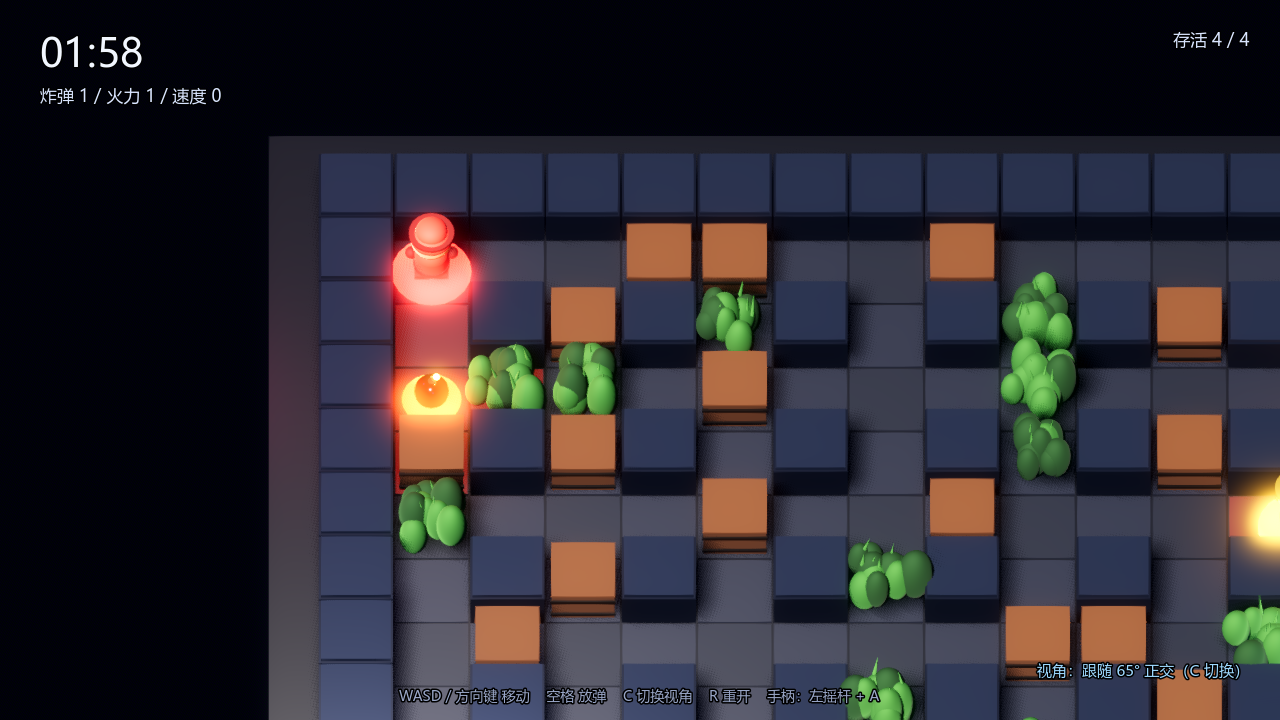
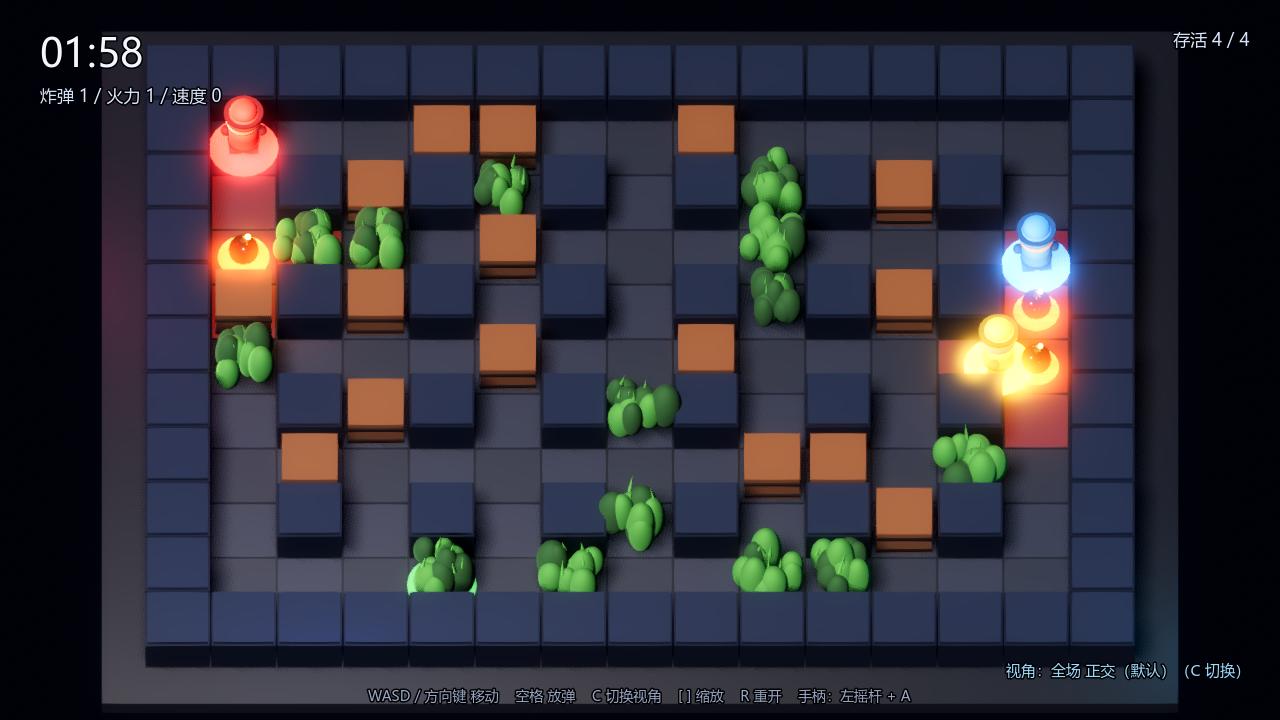
feat(game3d): 默认改为全场正交（整图入镜）+ 视野缩放键
- 相机正对棋盘、去掉 45° 斜角，15x11 全在画面里
- [ ] 实时缩放（0.7x-2.0x），HUD 提示同步
- 跟随模式改为小幅漂移，不再把画面带到场地角落
- 重新生成视角对比图并导出 exe

diff --git a/tools/gen_camera_sheet.py b/tools/gen_camera_sheet.py
@@ -16,11 +16,10 @@ OUT = os.path.join(ROOT, "docs", "camera_sheet.png")
 FONT = "C:/Windows/Fonts/msyh.ttc"
 
 ITEMS = [
-    ("0", "全场 正交 45°", "全图可见、格子等距，4 人混战最好判读", "角色略小，缺少纵深", True),
-    ("1", "跟随 65° 正交", "人物大、身边 8 格清楚", "看不到远处，容易被偷", False),
-    ("2", "跟随 78° 近俯视", "遮挡最少，最像 2D", "只见头顶，3D 感最弱", False),
-    ("3", "跟随 55° 透视", "纵深强，像动作游戏", "透视让远近格子不等大", False),
-    ("4", "全场 透视 55°", "画面最好看", "远处人物小、判读最差", False),
+    ("0", "全场 正交", "整张 15x11 全在画面里，格子等距", "角色偏小，缺纵深", True),
+    ("1", "跟随 65° 正交", "镜头跟人走，人物大", "只能看到身边一圈", False),
+    ("2", "跟随 78° 近俯视", "遮挡最少", "只见头顶，3D 感弱", False),
+    ("3", "全场 透视", "画面最好看", "远处人物小、判读差", False),
 ]
 
 IMG_W, IMG_H = 560, 315
@@ -76,13 +75,13 @@ def main() -> None:
     row = 2
     x = PAD + col * (CARD_W + GAP_X)
     y = 112 + row * (CARD_H + GAP_Y)
-    x = PAD + (CARD_W + GAP_X)
+    x = PAD
     d.rounded_rectangle([x, y, x + CARD_W, y + CARD_H], radius=10, fill=(18, 21, 31), outline=(70, 80, 110), width=1)
     d.text((x + 18, y + 18), "怎么选", font=name, fill=(255, 179, 71))
     lines = [
-        "想赢 → 1（全场正交）：4 人混战要看得全。",
-        "想有代入感 → 2 或 4：人物大，但只能看到身边。",
-        "想拍图/宣传 → 5（全场透视）：最好看。",
+        "想赢 → 1（全场正交）：整张图都在画面里。",
+        "想有代入感 → 2 或 3：人物大，但只能看到身边。",
+        "想拍图/宣传 → 4（全场透视）：最好看。",
         "",
         "另外两处已按“能玩”改过：",
         "· 石柱/木箱压矮，减少遮挡；",

diff --git a/game3d/README.md b/game3d/README.md
@@ -18,18 +18,25 @@
 **规则**：炸掉对手，最后一个活着的赢；超时 120 秒按炸箱数判定。
 木箱炸开有 38% 概率掉道具（炸弹 +1 / 火力 +1 / 速度 +1）。
 
-## 视角：4 种，按 C 循环
+## 视角：4 种，按 C 循环（[ ] 缩放）
 
 ![视角对比](../docs/camera_sheet.png)
 
-| # | 视角 | 适合 |
-|---|---|---|
-| 1 | 透视 55° 全场 | 想画面好看、有纵深 |
-| 2 | **正交 45° 等距（默认）** | 想看清格子、判读最准 |
-| 3 | 高俯视 70° 全场 | 想复刻 2D 俯视 |
-| 4 | 跟随近景 35° | 想要动作游戏手感 |
+| # | 视角 | 看得到什么 | 代价 |
+|---|---|---|---|
+| 1 | **全场 正交（默认）** | 整张 15x11 全在画面里，格子等距 | 角色偏小 |
+| 2 | 跟随 65° 正交 | 镜头跟人走，人物大 | 只能看到身边一圈 |
+| 3 | 跟随 78° 近俯视 | 遮挡最少 | 只见头顶 |
+| 4 | 全场 透视 | 画面最好看 | 远处人物小、判读差 |
 
-默认选的是正交等距：没有透视变形，远近格子一样大，4 人混战时最容易判断“我在哪、火会烧到哪”。
+默认是「全场正交」：**正交投影没有透视变形，整张图都在画面里**，看到多远就是多远。
+嫌细节小可以按 ] 拉近、[ 拉远（0.7x–2.0x）。
+
+为了让 3D 真的能玩，另外改了三处：
+
+- 石柱 1.34→1.16、木箱 1.18→1.06，压低遮挡；
+- **放弹时地面亮出爆炸范围**（红橙色格），不用再靠脑补；
+- 相机正对棋盘，不再用 45° 斜角浪费画面四角。
 
 ## 混搭场地
 
